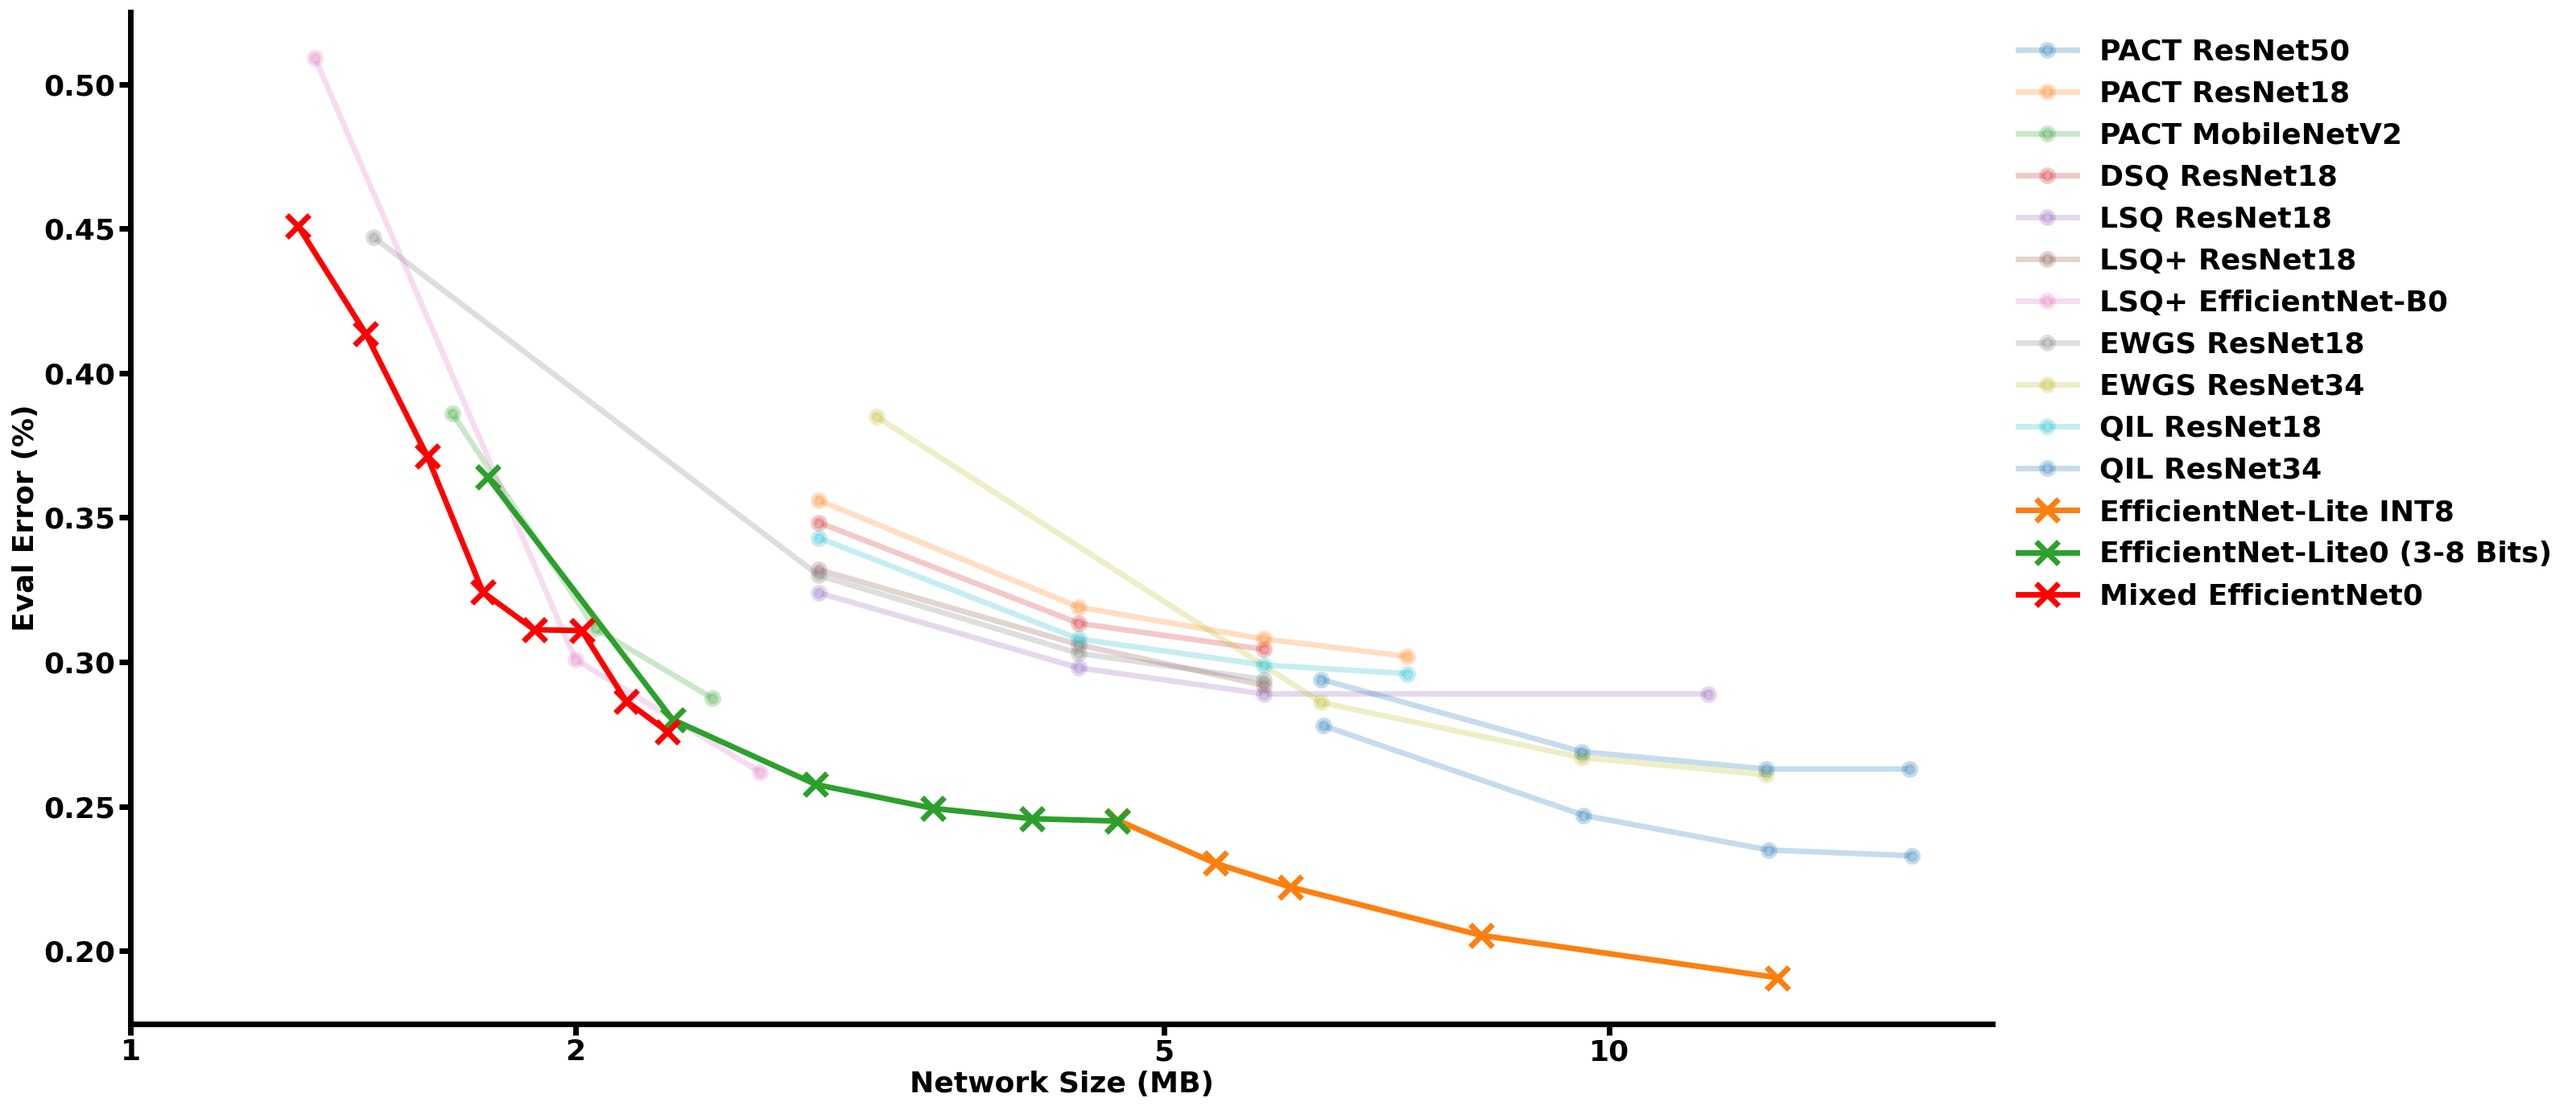
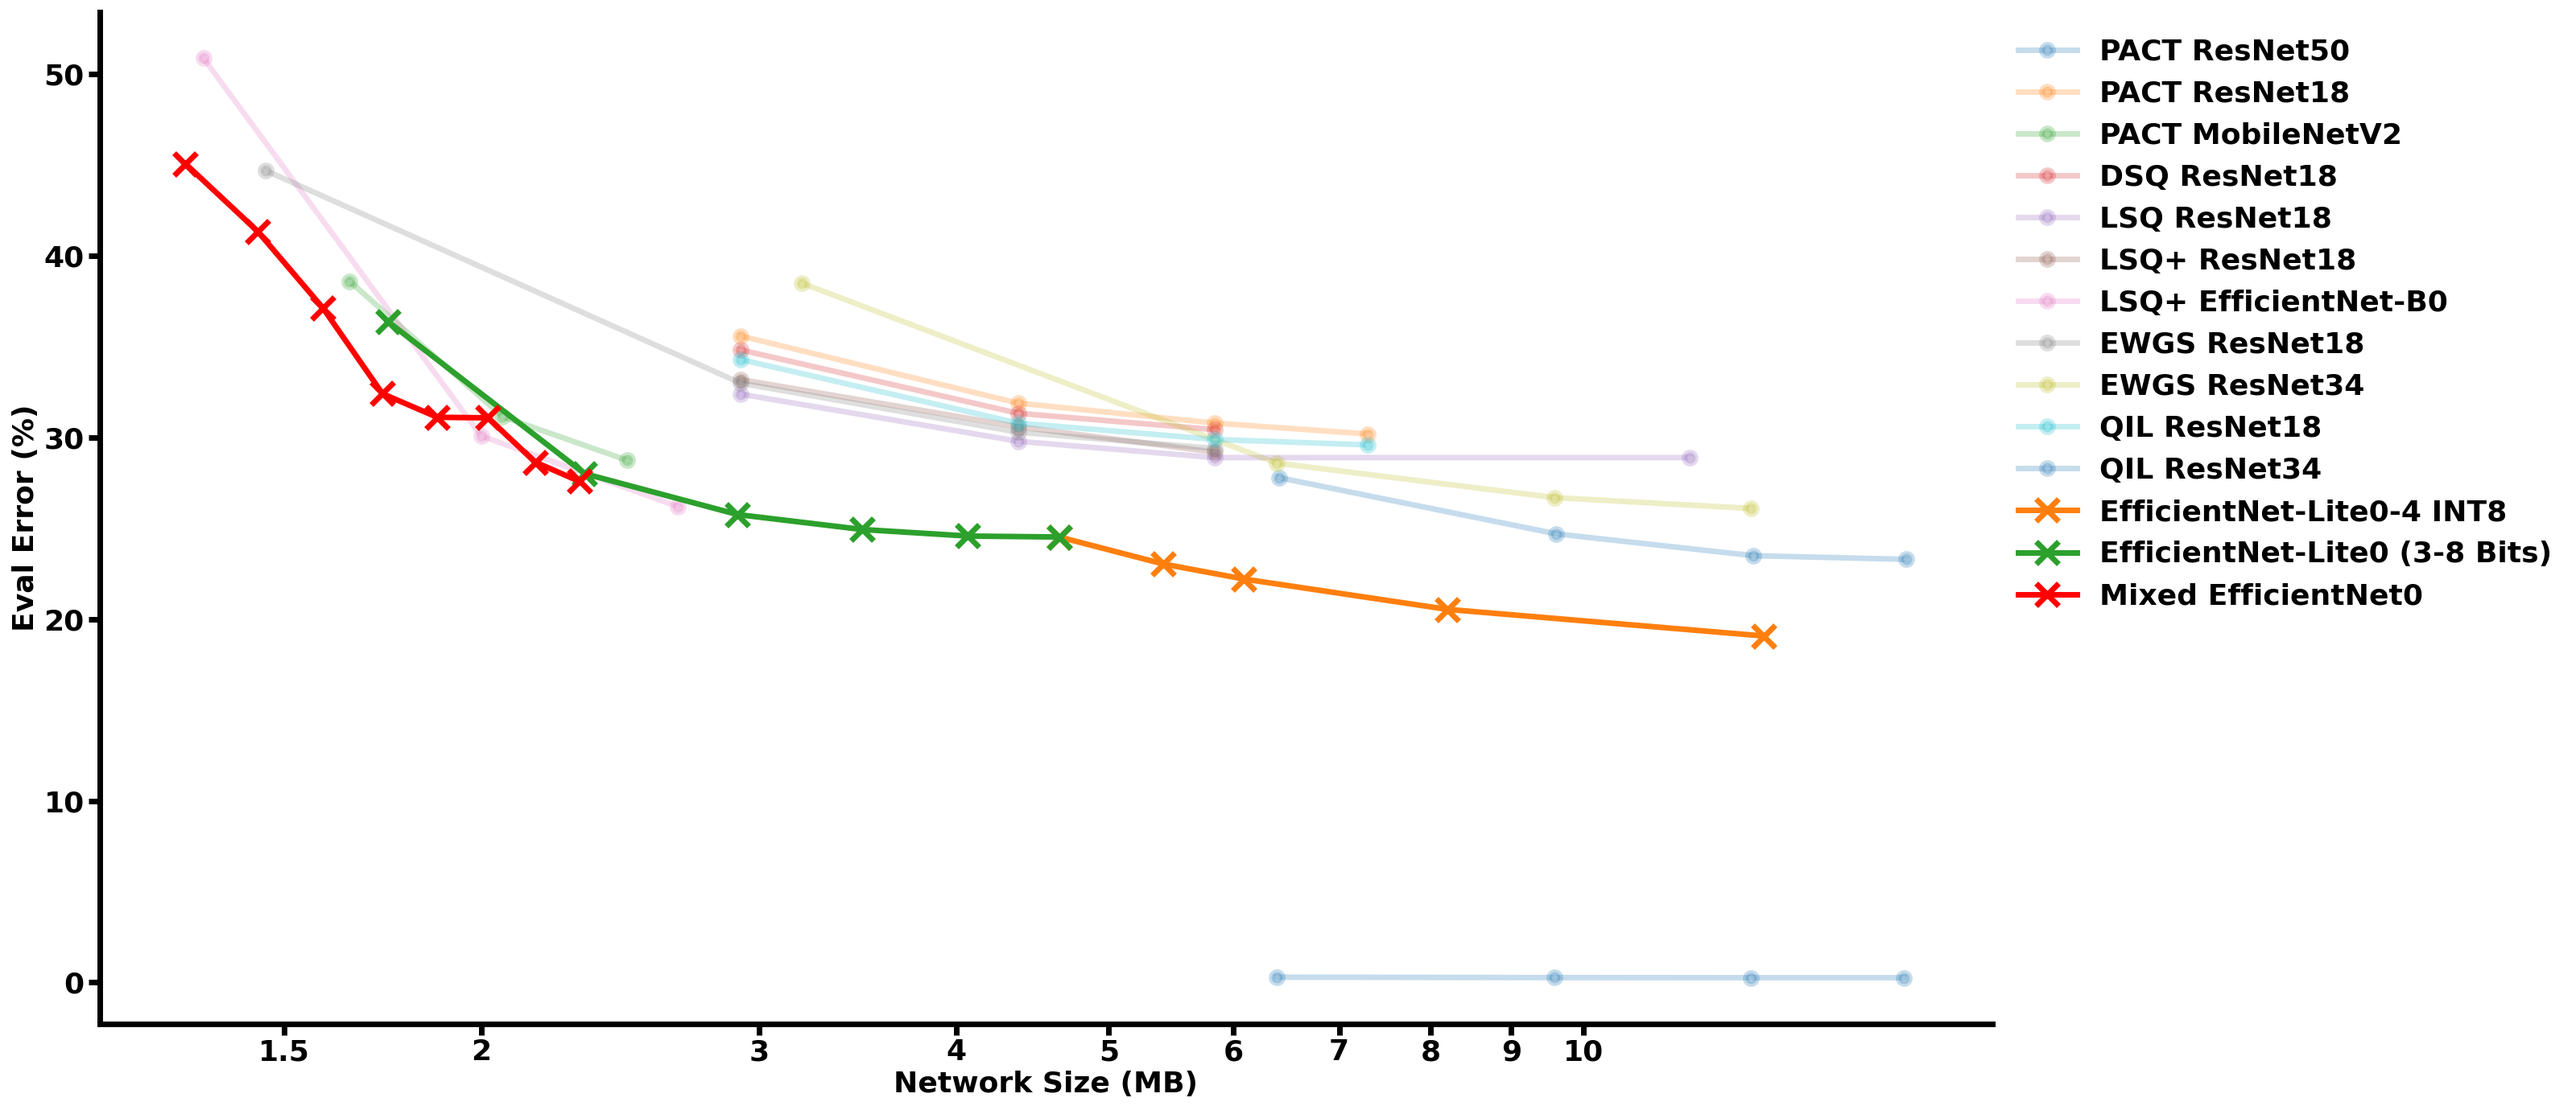
normal - figure update

diff --git a/examples/efficientnet/visualization.py b/examples/efficientnet/visualization.py
@@ -530,7 +530,8 @@ competitors = {
 
     'pact_resnet50': {
         # https://arxiv.org/pdf/1805.06085.pdf
-        'eval_err': [1 - 0.722, 1 - 0.753, 1 - 0.765, 1 - 0.767],
+        'eval_err': np.array([1 - 0.722, 1 - 0.753, 1 - 0.765,
+                              1 - 0.767]) * 100,
         'size_mb': np.array([2, 3, 4, 5]) * 25636712 / 8_000_000,
         'name': 'PACT ResNet50',
         'alpha': .25,
@@ -539,7 +540,8 @@ competitors = {
 
     'pact_resnet18': {
         # https://arxiv.org/pdf/1805.06085.pdf
-        'eval_err': [1 - 0.644, 1 - 0.681, 1 - 0.692, 1 - 0.698],
+        'eval_err': np.array([1 - 0.644, 1 - 0.681, 1 - 0.692,
+                              1 - 0.698]) * 100,
         'size_mb': np.array([2, 3, 4, 5]) * 11679912 / 8_000_000,
         'name': 'PACT ResNet18',
         'alpha': .25,
@@ -548,7 +550,7 @@ competitors = {
 
     'pact_mobilev2': {
         # https://arxiv.org/pdf/1811.08886.pdf
-        'eval_err': [1 - 0.6139, 1 - 0.6884, 1 - 0.7125],
+        'eval_err': np.array([1 - 0.6139, 1 - 0.6884, 1 - 0.7125]) * 100,
         'size_mb': np.array([4, 5, 6]) * 3300000 / 8_000_000,
         'name': 'PACT MobileNetV2',
         'alpha': .25,
@@ -556,7 +558,7 @@ competitors = {
 
     'dsq_resnet18': {
         # https://arxiv.org/abs/1908.05033
-        'eval_err': [1 - 0.6517, 1 - 0.6866, 1 - 0.6956],
+        'eval_err': np.array([1 - 0.6517, 1 - 0.6866, 1 - 0.6956]) * 100,
         'size_mb': np.array([2, 3, 4]) * 11679912 / 8_000_000,
         'name': 'DSQ ResNet18',
         'alpha': .25,
@@ -564,7 +566,8 @@ competitors = {
 
     'lsq_resnet18': {
         # https://arxiv.org/abs/1902.08153
-        'eval_err': [1 - 0.676, 1 - 0.702, 1 - 0.711, 1 - 0.711],
+        'eval_err': np.array([1 - 0.676, 1 - 0.702, 1 - 0.711,
+                              1 - 0.711]) * 100,
         'size_mb': np.array([2, 3, 4, 8]) * 11679912 / 8_000_000,
         'name': 'LSQ ResNet18',
         'alpha': .25,
@@ -572,7 +575,7 @@ competitors = {
 
     'lsqp_resnet18': {
         # https://arxiv.org/abs/2004.09576
-        'eval_err': [1 - 0.668, 1 - 0.694, 1 - 0.708],
+        'eval_err': np.array([1 - 0.668, 1 - 0.694, 1 - 0.708]) * 100,
         'size_mb': np.array([2, 3, 4]) * 11679912 / 8_000_000,
         'name': 'LSQ+ ResNet18',
         'alpha': .25,
@@ -580,7 +583,7 @@ competitors = {
 
     'lsqp_enet0': {
         # https://arxiv.org/abs/2004.09576
-        'eval_err': [1 - 0.491, 1 - 0.699, 1 - 0.738],
+        'eval_err': np.array([1 - 0.491, 1 - 0.699, 1 - 0.738]) * 100,
         # number might be incorrect
         'size_mb': np.array([2, 3, 4]) * 5330571 / 8_000_000,
         'name': 'LSQ+ EfficientNet-B0',
@@ -589,7 +592,8 @@ competitors = {
 
     'ewgs_resnet18': {
         # https://arxiv.org/abs/2104.00903
-        'eval_err': [1 - 0.553, 1 - 0.67, 1 - 0.697, 1 - 0.706],
+        'eval_err': np.array([1 - 0.553, 1 - 0.67, 1 - 0.697,
+                              1 - 0.706]) * 100,
         'size_mb': np.array([1, 2, 3, 4]) * 11679912 / 8_000_000,
         'name': 'EWGS ResNet18',
         'alpha': .25,
@@ -597,7 +601,8 @@ competitors = {
 
     'ewgs_resnet34': {
         # https://arxiv.org/abs/2104.00903
-        'eval_err': [1 - 0.615, 1 - 0.714, 1 - 0.733, 1 - 0.739],
+        'eval_err': np.array([1 - 0.615, 1 - 0.714, 1 - 0.733,
+                              1 - 0.739]) * 100,
         'size_mb': np.array([1, 2, 3, 4]) * 25557032 / 8_000_000,
         'name': 'EWGS ResNet34',
         'alpha': .25,
@@ -606,7 +611,8 @@ competitors = {
     'qil_resnet18': {
         # We did not quantize the first and the last layers as was done in
         # https://arxiv.org/abs/1808.05779
-        'eval_err': [1 - 0.704, 1 - 0.701, 1 - 0.692, 1 - 0.657],
+        'eval_err': np.array([1 - 0.704, 1 - 0.701, 1 - 0.692,
+                              1 - 0.657]) * 100,
         'size_mb': np.array([5, 4, 3, 2]) * 11679912 / 8_000_000,
         'name': 'QIL ResNet18',
         'alpha': .25,
@@ -616,7 +622,7 @@ competitors = {
     'qil_resnet34': {
         # We did not quantize the first and the last layers as was done in
         # https://arxiv.org/abs/1808.05779
-        'eval_err': [1 - 0.737, 1 - 0.737, 1 - 0.731, 1 - 0.706],
+        'eval_err': np.array([1 - 0.737, 1 - 0.737, 1 - 0.731, 1 - 0.706]),
         'size_mb': np.array([5, 4, 3, 2]) * 25557032 / 8_000_000,
         'name': 'QIL ResNet34',
         'alpha': .25,
@@ -907,6 +913,9 @@ def plot_line(ax, res_dict):
         y.append(1 - acc_temp)
         x.append(key * res_dict['params'] / 8_000_000)
 
+  print(res_dict['label'])
+  print(x)
+  print(y)
   ax.plot(x, y, marker='x', label=label, ms=20, markeredgewidth=5, linewidth=5)
 
 
@@ -955,14 +964,24 @@ def plot_comparison(name):
 
   # Our own.
   # plot_line(ax, enets_fp32_t2)
-  plot_line(ax, enets_int8)
+  # plot_line(ax, enets_int8)
+  ax.plot([4.652008, 5.41668, 6.092072, 8.197096, 13.006568],
+          np.array([0.2452799677848816, 0.2303873896598816, 0.2221272587776184,
+                    0.2054443359375, 0.1907958984375]) * 100, marker='x',
+          label='EfficientNet-Lite0-4 INT8', ms=20, markeredgewidth=5,
+          linewidth=5)
 
   # plot_line(ax, enet0_dynamic_init_double_mean_t2)
   # plot_line(ax, enet0_static_init_double_mean_t2)
   # plot_line(ax, enet0_dynamic_init_gaussian_t2)
   # plot_line(ax, enet0_static_init_gaussian_t2)
 
-  plot_line(ax, enet0_lr_best)
+  ax.plot([1.744503, 2.326004, 2.907505, 3.489006, 4.070507, 4.652008],
+          np.array([0.36395263671875, 0.2801310420036316, 0.2576497197151184,
+                    0.2494099736213684, 0.2458088994026184,
+                    0.2452799677848816]) * 100, marker='x',
+          label='EfficientNet-Lite0 (3-8 Bits)', ms=20, markeredgewidth=5,
+          linewidth=5)
 
   # xv = [1.1886465, 1.337227313, 1.485808125, 1.634388938, 1.78296975,
   #       2.080131375, 2.228712188, 2.377293, 2.525873813, 2.674454625,
@@ -971,8 +990,8 @@ def plot_comparison(name):
   #       0.3241, 0.3184, 0.3068, 0.286, 0.2812, 0.2795]
 
   xv = 0.577 * np.array([2.25, 2.5, 2.75, 3.0, 3.25, 3.5, 3.75, 4.0])
-  yv = 1 - np.array([0.5492, 0.5864, 0.6286, 0.6758,
-                    0.6888, 0.6891, 0.7135, 0.7241])
+  yv = 100 - np.array([0.5492, 0.5864, 0.6286, 0.6758,
+                       0.6888, 0.6891, 0.7135, 0.7241]) * 100
   ax.plot(xv, yv, marker='x', label="Mixed EfficientNet0",
           ms=20, markeredgewidth=5, linewidth=5, color='red')
   # plot_line(ax, enet0_dynamic_lsq)
@@ -981,7 +1000,8 @@ def plot_comparison(name):
   # plot_mixed(ax, enet0_mixed_8)
   # plot_mixed(ax, enet0_mixed_4)
   ax.set_xscale('log')
-  plt.xticks([1.5, 2, 3, 5, 10], ['1.5', '2', '3', '5', '10'])
+  plt.xticks([1.5, 2, 3, 4, 5, 6, 7, 8, 9, 10], [
+             '1.5', '2', '3', '4', '5', '6', '7', '8', '9', '10'])
   ax.set_xlabel("Network Size (MB)", fontsize=font_size, fontweight='bold')
   ax.set_ylabel("Eval Error (%)", fontsize=font_size, fontweight='bold')
   plt.legend(
